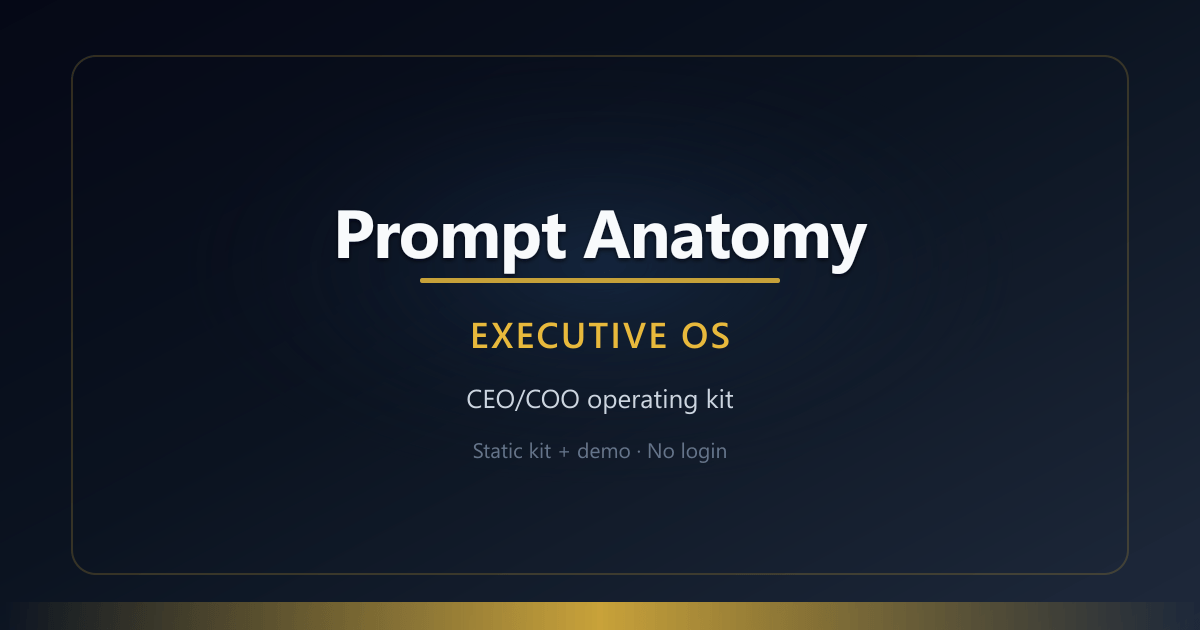
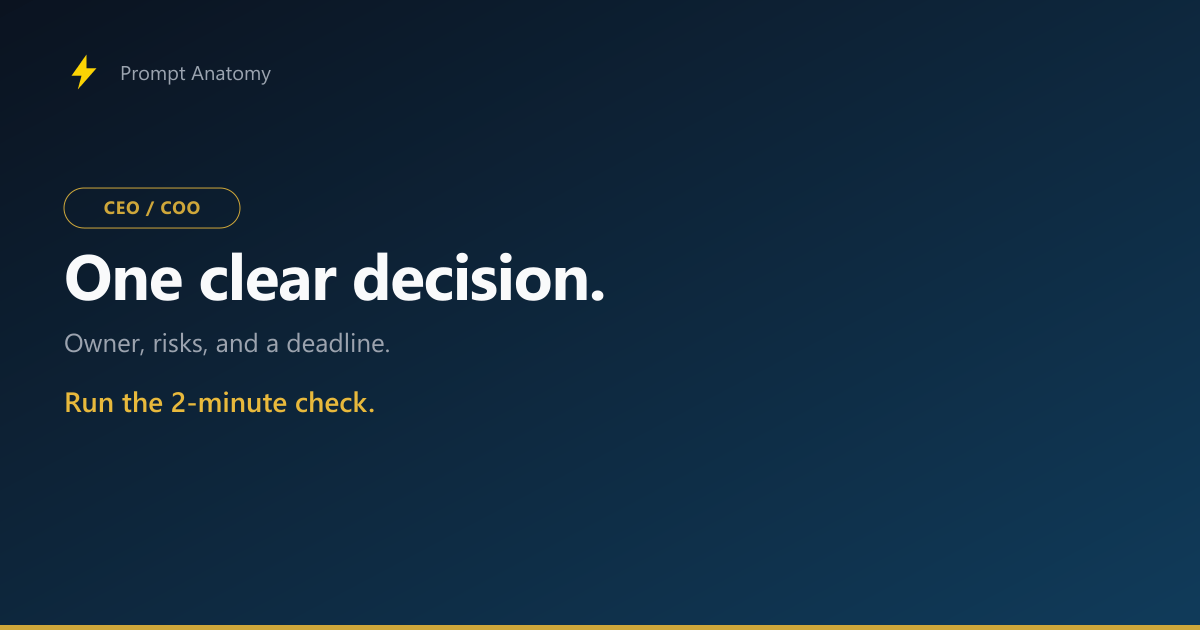
Ship a Satori-style decision card and split social copy from the search description.
Feeds were cutting one 170-character sentence mid-phrase, and the image had no next step. Also record the shipped header and hero layout so later sessions do not undo it.

diff --git a/src/content/locales/en.ts b/src/content/locales/en.ts
@@ -2,8 +2,10 @@ export const enCopy = {
     meta: {
       title: "CEO/COO Executive Decision Kit | Prompt Anatomy",
       description:
-        "One executive workflow turns business noise into decision briefs with owners, risks, and deadlines. Static kit and demo—no login. Full team standard on PromptAnatomy.app.",
-      socialImageAlt: "Prompt Anatomy — CEO/COO Executive OS static kit and social preview.",
+        "One executive workflow turns business noise into a decision brief with an owner, risks, and a deadline. Static CEO/COO kit and demo. No login.",
+      socialDescription:
+        "Turn business noise into a decision brief with an owner, risks, and a deadline. Static kit. No login.",
+      socialImageAlt: "Prompt Anatomy — One clear decision. Run the 2-minute check.",
     },
     a11y: {
       skipLink: "Skip to the context fields",

diff --git a/src/content/locales/localeParity.test.ts b/src/content/locales/localeParity.test.ts
@@ -62,11 +62,15 @@ describe("locale parity (en.ts / lt.ts)", () => {
     for (const bundle of [enCopy, ltCopy] as const) {
       expect(bundle.meta.title.trim().length).toBeGreaterThan(0);
       expect(bundle.meta.description.trim().length).toBeGreaterThan(0);
+      expect(bundle.meta.socialDescription.trim().length).toBeGreaterThan(0);
     }
   });
 
   it("uses en.meta as single source for landing page SEO copy", () => {
     expect(enCopy.meta.title).toContain("Prompt Anatomy");
     expect(enCopy.meta.description).toMatch(/PromptAnatomy|executive|decision/i);
+    expect(enCopy.meta.description.length).toBeLessThanOrEqual(160);
+    expect(enCopy.meta.socialDescription.length).toBeLessThanOrEqual(125);
+    expect(enCopy.meta.socialDescription).toMatch(/decision brief/i);
   });
 });

diff --git a/src/content/locales/lt.ts b/src/content/locales/lt.ts
@@ -3,6 +3,8 @@ export const ltCopy = {
       title: "CEO/COO sprendimų operacinis rinkinys | Prompt Anatomy",
       description:
         "Viena vadovo eiga paverčia verslo triukšmą sprendimo briefais su savininku, rizikomis ir terminais. Statinis rinkinys ir demo – be prisijungimo. Komandos standartas PromptAnatomy.app.",
+      socialDescription:
+        "Turn business noise into a decision brief with an owner, risks, and a deadline. Static kit. No login.",
       socialImageAlt:
         "Prompt Anatomy – CEO/COO Executive OS statinis rinkinys ir peržiūros paveikslas socialiniams tinklams.",
     },

diff --git a/src/constants/pageSeo.ts b/src/constants/pageSeo.ts
@@ -5,7 +5,7 @@
 export const LEADER_PAGE_DATE_PUBLISHED = "2024-06-01";
 
 /** Last substantive content or SEO update (ISO 8601 date). */
-export const LEADER_PAGE_DATE_MODIFIED = "2026-09-09";
+export const LEADER_PAGE_DATE_MODIFIED = "2026-09-25";
 
 /** Google Search Console HTML-tag verification for `promptanatomy.pro`. */
 export const GOOGLE_SITE_VERIFICATION = "IeoNpDUYy1zwRqccCAO41IxZwUW2MHvKzleVbLJkArE";

diff --git a/AGENTS.md b/AGENTS.md
@@ -24,7 +24,7 @@ This project is a lean **English-only** CEO/COO executive prompt operating kit f
 
 ## Architecture
 
-- [`src/pages/index.astro`](src/pages/index.astro) renders [`src/layouts/Page.astro`](src/layouts/Page.astro) at `/`; legacy `/en/` and `/lt/` are noindex redirect stubs — details in [`docs/CODEBASE_OVERVIEW.md`](docs/CODEBASE_OVERVIEW.md).
+- [`src/pages/index.astro`](src/pages/index.astro) renders [`src/layouts/Page.astro`](src/layouts/Page.astro) at `/`; legacy `/en/` and `/lt/` are noindex redirect stubs — details in [`docs/CODEBASE_OVERVIEW.md`](docs/CODEBASE_OVERVIEW.md). `SiteHeader.astro` stays outside `<main>`; `Hero.astro` is the first child of `<main>`.
 - Copy (active): [`src/content/locales/en.ts`](src/content/locales/en.ts) via [`src/content/copy.ts`](src/content/copy.ts). Frozen archive: [`lt.ts`](src/content/locales/lt.ts).
 - Outbound URLs: [`src/constants/outboundLinks.ts`](src/constants/outboundLinks.ts) + [`docs/UTM_MATRIX.md`](docs/UTM_MATRIX.md); domains in [`docs/SOURCE_OF_TRUTH.md`](docs/SOURCE_OF_TRUTH.md) (Vercel: apex `https://promptanatomy.pro/` is Production; `www` 308s to apex — not `vercel.json`).
 - Components: [`src/components/`](src/components/); styles: [`src/styles/global.css`](src/styles/global.css).
@@ -34,7 +34,7 @@ This project is a lean **English-only** CEO/COO executive prompt operating kit f
 ## Cursor rules and skills
 
 - **Rules:** `.cursor/rules/` — `project-direction.mdc` (always on); scoped rules for `src/**` (`visual-and-copy.mdc`, `language-standard.mdc`, `astro-quality.mdc`) and `docs/**` US META (`us-localization-meta.mdc`). On conflict with shipped UI, **`src/layouts/Page.astro`** wins — then update the doc.
-- **Skill:** [`.cursor/skills/executive-landing-improvement/SKILL.md`](.cursor/skills/executive-landing-improvement/SKILL.md) — landing copy, sections, EN-only development, conversion polish (must stay aligned with rules above).
+- **Skill:** [`.cursor/skills/executive-landing-improvement/SKILL.md`](.cursor/skills/executive-landing-improvement/SKILL.md) — landing copy, sections, EN-only development, conversion polish (must stay aligned with rules above). Session traps: [`lessons.md`](.cursor/skills/executive-landing-improvement/lessons.md).
 
 ## Documentation map
 

diff --git a/.cursor/skills/executive-landing-improvement/lessons.md b/.cursor/skills/executive-landing-improvement/lessons.md
@@ -1,0 +1,11 @@
+# Lessons — executive landing
+
+Date-stamped traps. The skill is the playbook; this file is why not to undo a ship. Do not dump `en.ts`, the PDF, or the prompt library here.
+
+## 2026-09-15 leftover cleanup
+
+- **Clipboard vs hidden prompt:** focusing `[data-demo-field=prompt]` while `#demo-prompt-panel` still has class `hidden` shows the toast and hides the text. Call `setDemoSubpanel("prompt")` first (`revealDemoPromptForManualCopy`). Module copy fail: open parent `<details>` of `[data-module-preview-content]` if present; else toast-only.
+- **Hash focus needs tabindex:** `Page.astro` `el.focus()` no-ops without it. `#safety-check` `#faq` `#anatomy` `#library` `#module-secondOrder` are `anchorFocusable` / `ContentCard tabindex=-1` when `id` is set. Wrap `decodeURIComponent(location.hash)` in try/catch.
+- **Hero in main:** the 2026-09-09 line that `main` starts at `#context` is false. First child of `<main>` is `Hero`; `#context` is still the first conversion id after the hero. Skip-link stays `#ctx-company`.
+- **E2E site chrome:** do not `locator("header")` count 1. PromptLibrary category panels use `<header class="mb-4">` inside `main`. Use `data-testid="site-header"`. PA `hero`/`primary` lives in `#mobile-menu` (sibling of that header).
+- **Do not restore:** `DiagramContainer.astro`, `.btn-outline-neutral`, `.hidden-lang`, `.border-surface`, a desktop PromptAnatomy button, LanguageToggle, pre-context meme-01/03 mounts. Unmounted meme PNG files stay on disk (social reuse).

diff --git a/.cursor/skills/executive-landing-improvement/SKILL.md b/.cursor/skills/executive-landing-improvement/SKILL.md
@@ -12,6 +12,14 @@ description: Landing copy, sections, EN-only development, conversion flow. Stati
 3. Edit [`src/content/locales/en.ts`](../../src/content/locales/en.ts) only for copy (**`lt.ts` is frozen**); scoped rules apply automatically
 4. Outbound changes → [`src/constants/outboundLinks.ts`](../../src/constants/outboundLinks.ts) + [`docs/UTM_MATRIX.md`](../../docs/UTM_MATRIX.md)
 5. Deploy host is apex `https://promptanatomy.pro/` (`SITE_URL`). Do not retarget canonicals to `www`. GSC http/www redirects are expected — see [`docs/SOURCE_OF_TRUTH.md`](../../docs/SOURCE_OF_TRUTH.md) SEO table.
+6. Session traps: [`lessons.md`](lessons.md)
+
+## Shipped layout (do not undo)
+
+- `SiteHeader.astro` (nav + mobile menu) stays **outside** `<main>`. `Hero.astro` (h1 + diagram) is the **first child of `<main>`**. Skip-link stays `#ctx-company`.
+- Desktop gold CTA is `#context` only. PromptAnatomy `utm_source=leader` `hero`/`primary` is **mobile-menu only**.
+- Demo Details / Input / Prompt are disclosures (`aria-expanded`, collapse-on-retap), not a tablist.
+- Do not remount meme-01/03, restore `LanguageToggle`, move PromoBanner, or start bounce / PDF dedup.
 
 ## Product filter
 

diff --git a/CHANGELOG.md b/CHANGELOG.md
@@ -2,6 +2,13 @@
 
 Daily project updates for the PromptAnatomy Executive OS landing page.
 
+## 2026-09-25 (social card)
+
+### Changed
+
+- **OG image:** [`scripts/generate-og-image.mjs`](scripts/generate-og-image.mjs) now draws a left-aligned Satori text frame (bolt, CEO/COO pill, “One clear decision.”, “Run the 2-minute check.”). [`public/og-image.png`](public/og-image.png) stays 1200×630.
+- **Descriptions:** search and JSON-LD use `meta.description` (142). `og:description` and `twitter:description` use `meta.socialDescription` (101). English `socialImageAlt` matches the card.
+
 ## 2026-09-15 (leftover cleanup)
 
 ### Changed
@@ -18,6 +25,7 @@ Daily project updates for the PromptAnatomy Executive OS landing page.
 ### Docs
 
 - Strategic plan, design system, QA primitives, overview hash registry, copy audit, mobile audit, and roadmap sister CTA now match shipped `Page.astro` (meme beats **2, 5**; English at `/`; no `/en/` landing).
+- Landing skill + [`lessons.md`](.cursor/skills/executive-landing-improvement/lessons.md): SiteHeader/Hero split, clipboard-hidden-prompt, hash tabindex, e2e `site-header` testid.
 
 ## 2026-09-09 (hero freeze + www hop)
 

diff --git a/docs/DOCUMENT_MANAGEMENT.md b/docs/DOCUMENT_MANAGEMENT.md
@@ -9,7 +9,7 @@ Keep documentation useful, short, and close to the work. This is a lean one-page
 - **Entry index for all docs:** `docs/README.md` (table of every doc, when to update, links)
 - **Completion router:** `docs/DEFINITION_OF_DONE.md` (universal minimum + task-type gates)
 - Product direction: `AGENTS.md` and `.cursor/rules/project-direction.mdc`
-- Cursor landing playbook: `.cursor/skills/executive-landing-improvement/SKILL.md` (subordinate to rules + `Page.astro`)
+- Cursor landing playbook: `.cursor/skills/executive-landing-improvement/SKILL.md` (subordinate to rules + `Page.astro`); session traps in `lessons.md`
 - Copy QA by section: `docs/COPY_AUDIT_BY_SLIDE.md` (pair with `language-standard` when editing locales)
 - Page architecture (canonical flow): `docs/CODEBASE_OVERVIEW.md` and `src/layouts/Page.astro`
 - Strategy / IA / CTA roadmap (long form): `docs/STRATEGIC_REVISION_PLAN.md`

diff --git a/docs/COPY_AUDIT_BY_SLIDE.md b/docs/COPY_AUDIT_BY_SLIDE.md
@@ -71,7 +71,7 @@ Vienas vykdymo šaltinis: gramatika, stilius, EN/LT lygiavimas, a11y ir technini
 
 **Lygiavimas**
 
-- `og:*` ir `twitter:*` naudoja tą patį `meta.title` / `description` / `socialImageAlt` – vienas redagavimas abiem.
+- `og:description` and `twitter:description` use `meta.socialDescription`. Search `meta name="description"` and JSON-LD `WebPage.description` stay on `meta.description`. Title and `socialImageAlt` are still shared.
 
 **Ne locale**
 
